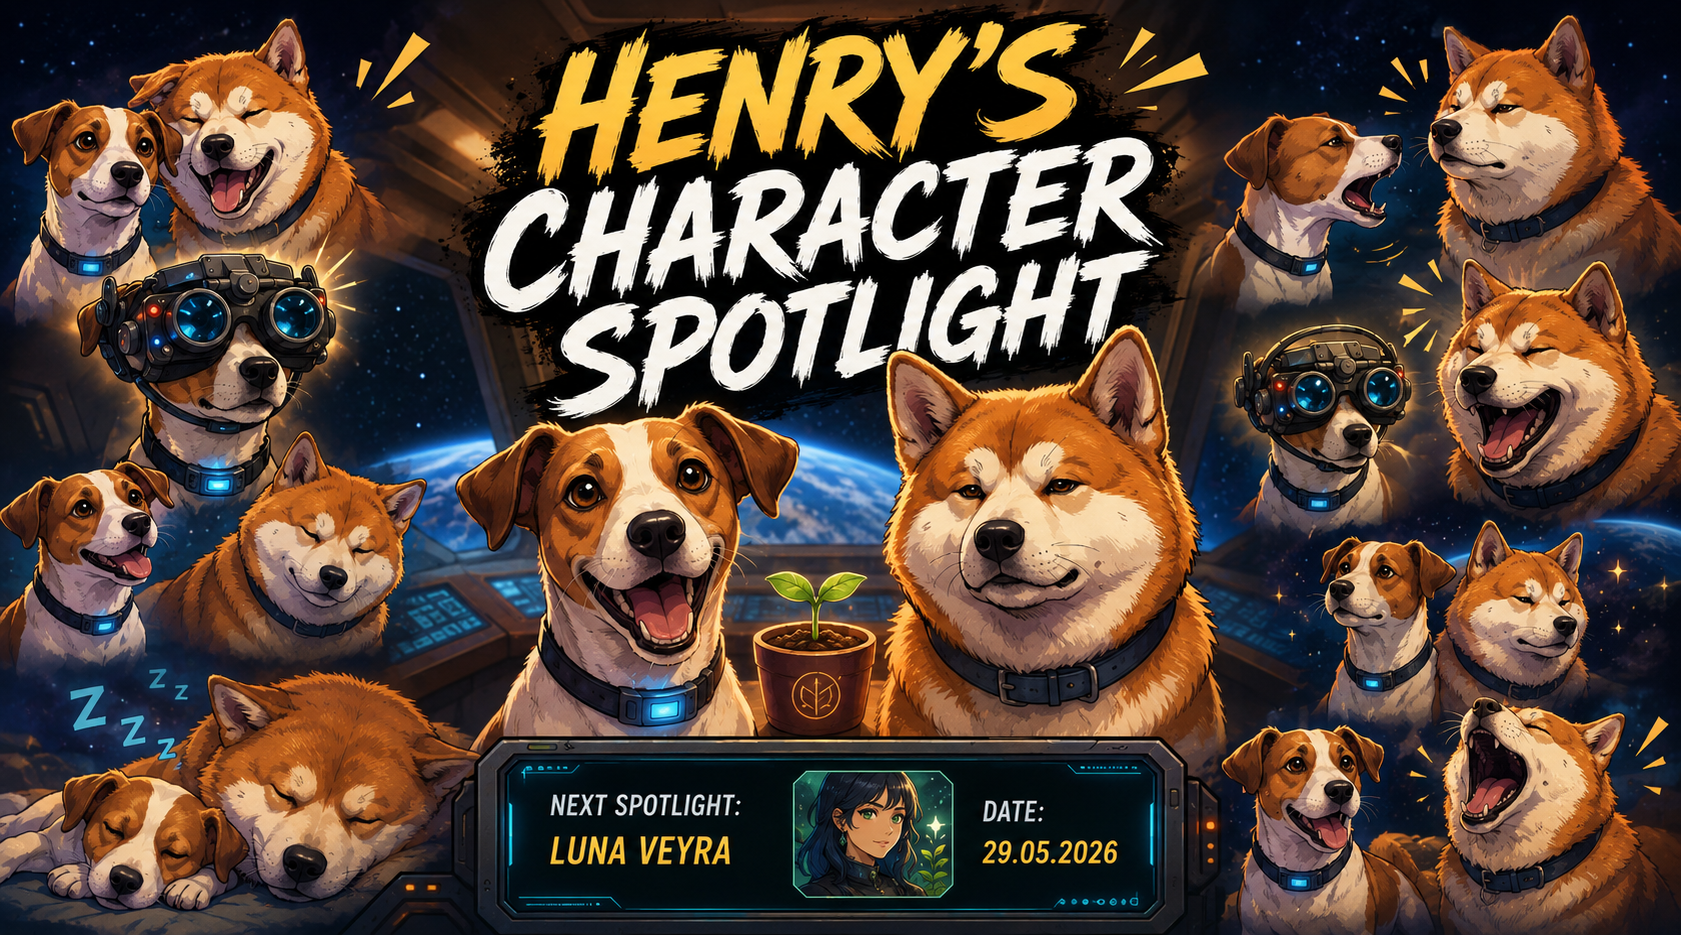
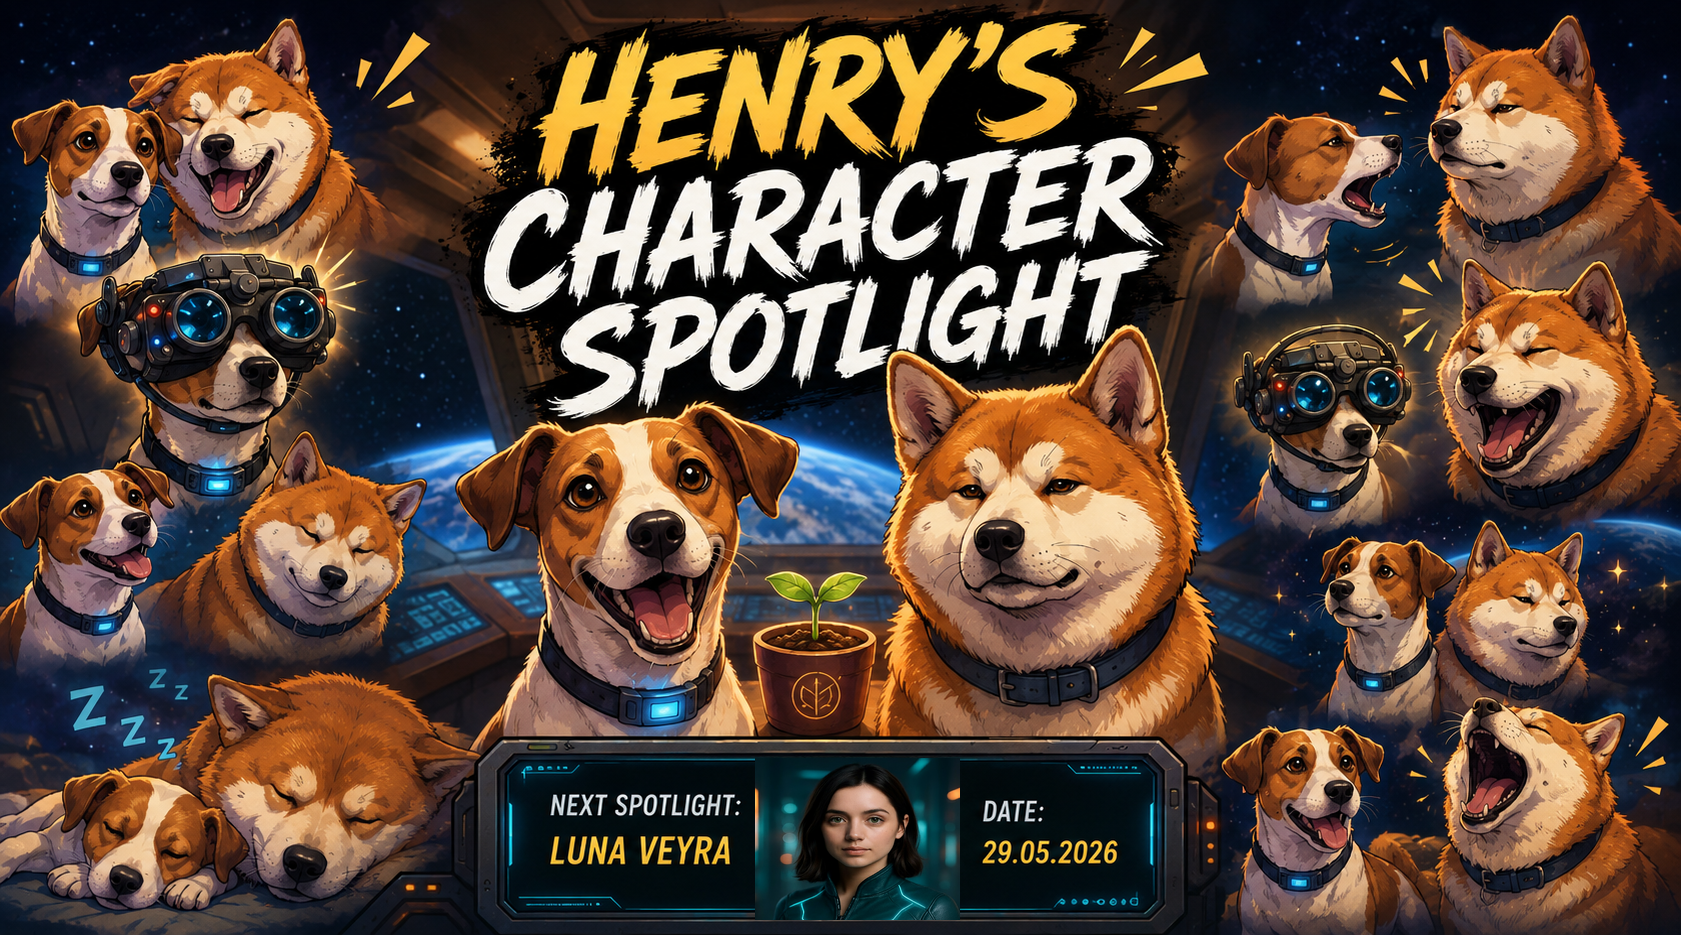
feat: replace comic thumbnail with real Luna portrait in HUD panel, remove bottom menu bar
- Replace comic-style Luna thumbnail in HUD panel with real photo
- Remove bottom menu band (thumbnail + close button)
- Add minimal X close button in top-right corner of popup

Changed region(s): [[0.4331, 0.8064, 0.5877, 0.9925]]

diff --git a/src/components/ComingSoonPopup.jsx b/src/components/ComingSoonPopup.jsx
@@ -41,6 +41,26 @@ const ComingSoonPopup = () => {
           }}
           onClick={(e) => e.stopPropagation()}
         >
+          {/* Close button - top right corner */}
+          <button
+            onClick={handleClose}
+            className="absolute top-3 right-3 z-10 flex items-center justify-center w-8 h-8 rounded-full transition-all duration-200"
+            style={{
+              background: 'rgba(0,0,0,0.6)',
+              border: '1px solid rgba(255,107,53,0.5)',
+              color: '#ff6b35',
+            }}
+            onMouseEnter={(e) => {
+              e.currentTarget.style.background = 'rgba(255,107,53,0.3)';
+            }}
+            onMouseLeave={(e) => {
+              e.currentTarget.style.background = 'rgba(0,0,0,0.6)';
+            }}
+            aria-label="Close popup"
+          >
+            <X className="w-4 h-4" />
+          </button>
+
           {/* Main Image - fills the popup */}
           <div className="relative w-full">
             <img
@@ -49,56 +69,6 @@ const ComingSoonPopup = () => {
               className="w-full h-auto block"
               style={{ display: 'block' }}
             />
-          </div>
-
-          {/* Bottom bar - slim menu band */}
-          <div
-            className="flex items-center justify-between px-5 py-3"
-            style={{
-              background: 'linear-gradient(90deg, #0a0a0a 0%, #1a0a00 50%, #0a0a0a 100%)',
-              borderTop: '1px solid rgba(255,107,53,0.25)',
-            }}
-          >
-            {/* Luna thumbnail + label */}
-            <div className="flex items-center gap-3">
-              <img
-                src="/images/characters/luna-thumbnail.jpg"
-                alt="Luna Veyra"
-                className="rounded-full object-cover"
-                style={{
-                  width: '40px',
-                  height: '40px',
-                  border: '2px solid #ff6b35',
-                }}
-              />
-              <div>
-                <p className="text-xs text-gray-400 leading-none mb-0.5">Next Spotlight</p>
-                <p className="text-sm font-bold leading-none" style={{ color: '#ff6b35' }}>
-                  Luna Veyra &mdash; May 29th
-                </p>
-              </div>
-            </div>
-
-            {/* Close button */}
-            <button
-              onClick={handleClose}
-              className="flex items-center gap-2 px-4 py-2 rounded-lg text-sm font-semibold transition-all duration-200"
-              style={{
-                background: 'rgba(255,107,53,0.15)',
-                border: '1px solid rgba(255,107,53,0.4)',
-                color: '#ff6b35',
-              }}
-              onMouseEnter={(e) => {
-                e.currentTarget.style.background = 'rgba(255,107,53,0.3)';
-              }}
-              onMouseLeave={(e) => {
-                e.currentTarget.style.background = 'rgba(255,107,53,0.15)';
-              }}
-              aria-label="Close popup"
-            >
-              <X className="w-4 h-4" />
-              Close
-            </button>
           </div>
         </div>
       </div>
